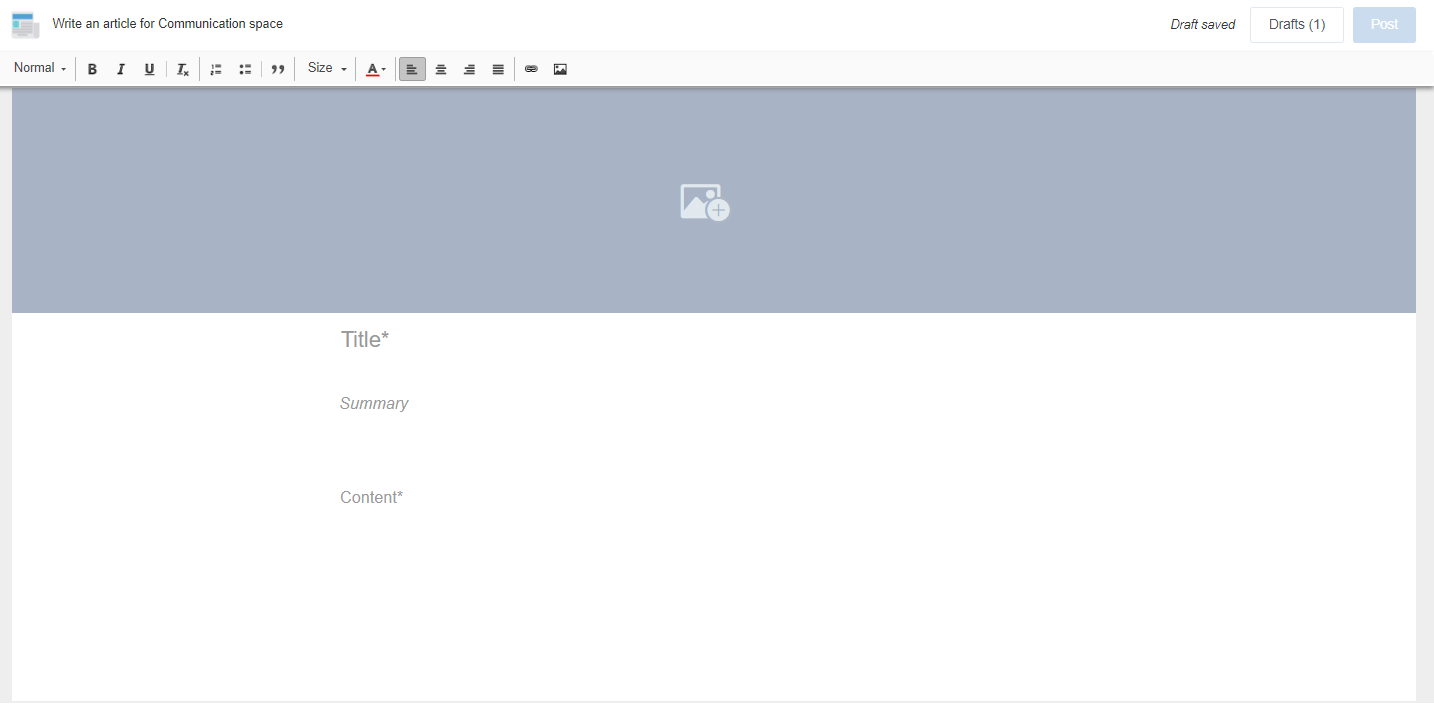
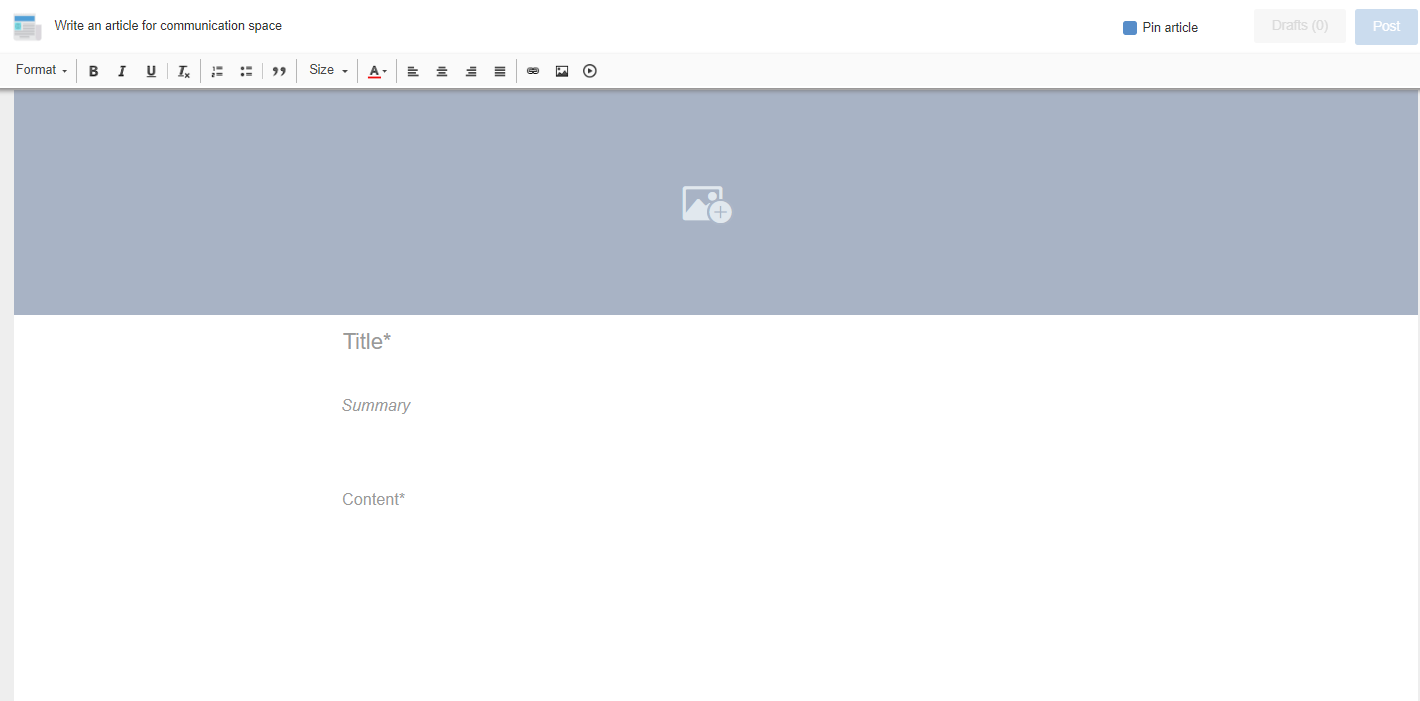
insert a video in creation form

diff --git a/docs/GettingStarted.rst b/docs/GettingStarted.rst
@@ -1153,13 +1153,16 @@ the link.
 .. _News:
 
 	
-Posting a news in the activity stream
+Posting a News in the activity stream
 ~~~~~~~~~~~~~~~~~~~~~~~~~~~~~~~~~~~~~~
 
 It is possible to write an article directly from a space composer. This feature is intended to improve and simplify the way information is shared. Users can contribute content intuitively without any former training to the content management system. News offers an inclusive and collaborative way to manage communication.
 Publishing a news lets you easily write, broadcast  and share communication content into other spaces. You can also make it visible to all platform users by pinning articles on the home page.
 
-To post a news article, click "write an article" located at the bottom of the space's composer. 
+creating and posting a News
+---------------------------
+
+To create a news article, click "write an article" located at the bottom of the space's composer. 
 
 |image156|
 
@@ -1167,7 +1170,31 @@ The creation form is opened in a new tab.
 
 |image159|
 
-Write or paste your article content in. Choose a title, a summary and an illustrative image as desired, then press the "Post" button in the top-right corner of the screen. 
+Write or paste your article content in. Choose a title, a summary and an illustrative image as desired. 
+
+**Upload a video**
+
+You can insert a video in the article's content by clicking in the video icon from the ckeditor toolbar.
+
+|image192|
+
+You have to paste the video's url in the field of the displayed popup. The supported video players are Youtube, Vimeo and dailymotion.
+
+|image193|
+
+If the inserted URL format is uncorrect, a red icon is displayed (with a tooltip displaying the message "invalid URL") and the "OK" button is still disabled.
+
+|image195|
+
+If the inserted URL format is correct, a green icon is displayed and the "OK" button is enabled.
+
+|image194|
+
+When you click on the "OK" button a preview of the video is displayed in the content field and you can continue writing the article.
+
+|image196|
+
+When you finish writing your article, press the "Post" button in the top-right corner of the screen. 
 
 |image160|
 
@@ -2216,6 +2243,9 @@ to display the original timestamp of the comment.
 .. |image189| image:: images/sharenews/search_title.png
 .. |image190| image:: images/sharenews/search_user.png
 .. |image191| image:: images/sharenews/search_content.png
-
-
+.. |image192| image:: images/sharenews/video_icon.png
+.. |image193| image:: images/sharenews/video_popup.png
+.. |image194| image:: images/sharenews/correct_video_url.png
+.. |image195| image:: images/sharenews/uncorrect_video_url.png
+.. |image196| image:: images/sharenews/video_creation_form.png
 
